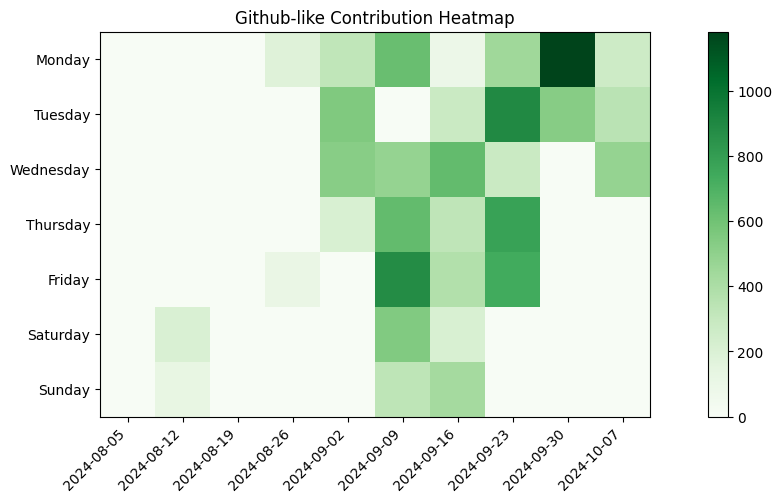
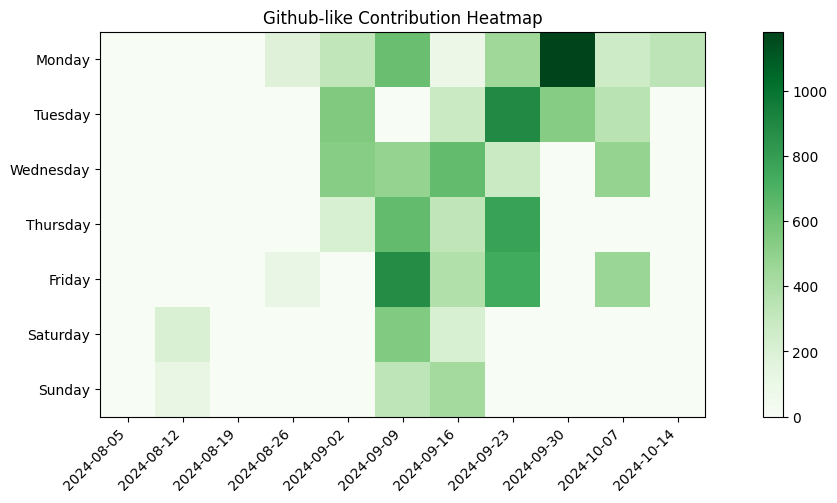
Update

diff --git a/README.md b/README.md
@@ -31,4 +31,6 @@
 20241007 267.33 (6.75-0.67)*44
 20241008 149.36 (7.13-0.64)*23   193.91 (6.47-1.09)*36
 20241009 238.24 (7.03-0.76)*38   245.32 (6.97-0.68)*39
+20241011 269.05 (7.21-0.95)*43   193.92 (6.32-1.08)*37
+20241014 333.77 (5.15-1.23)*85
 ```
